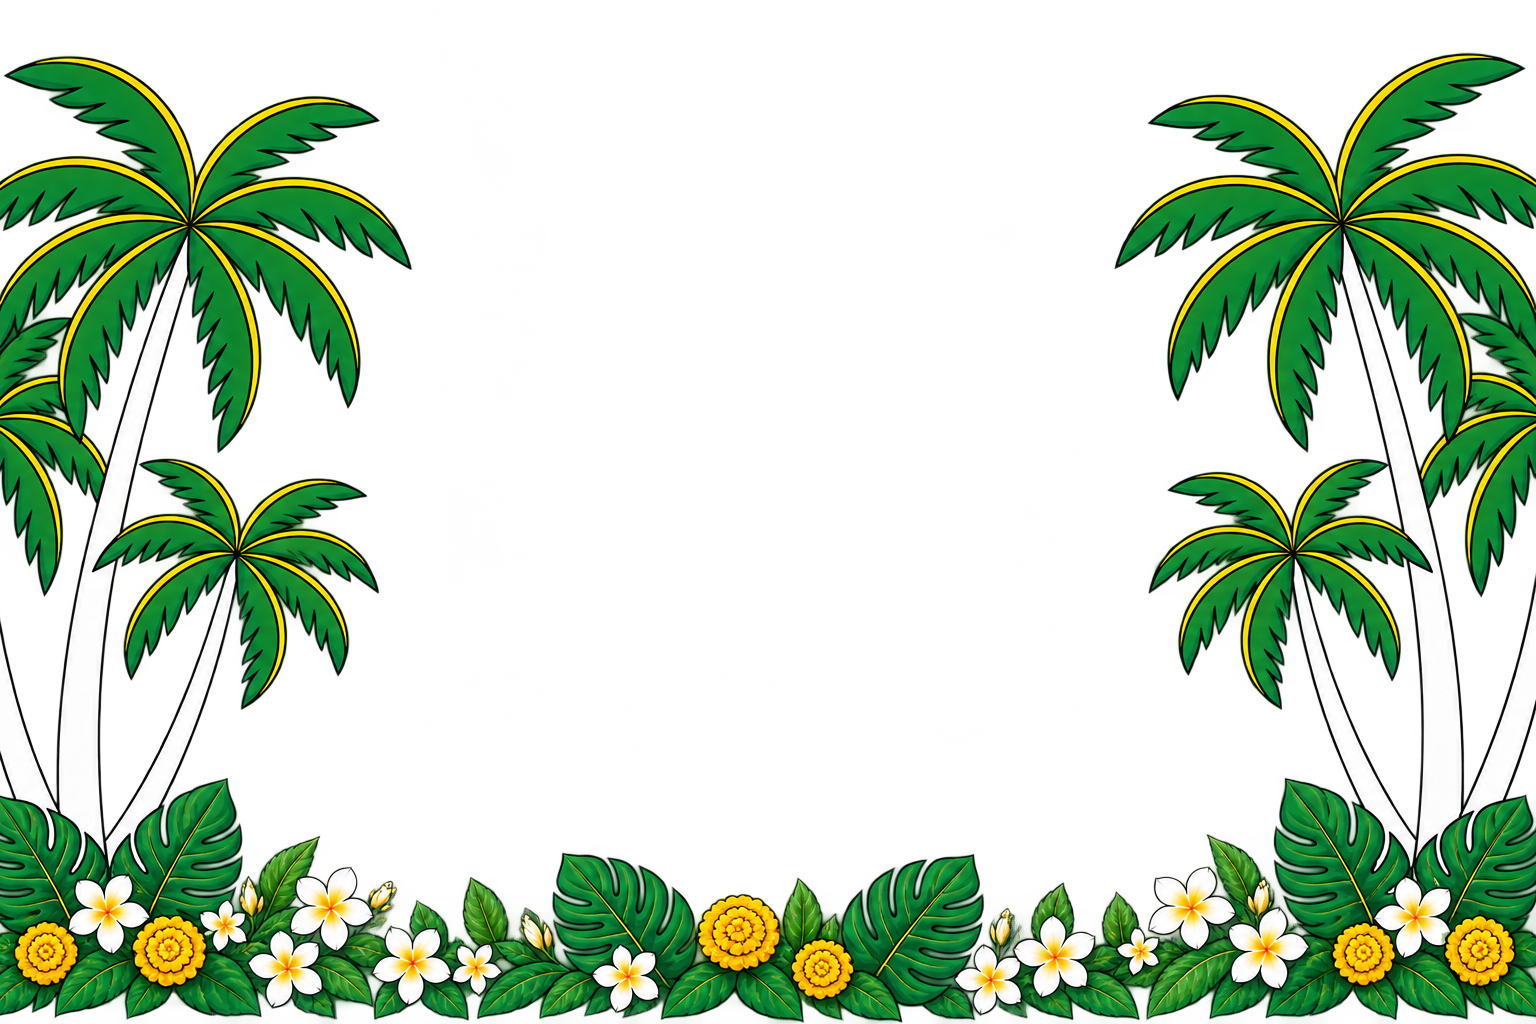
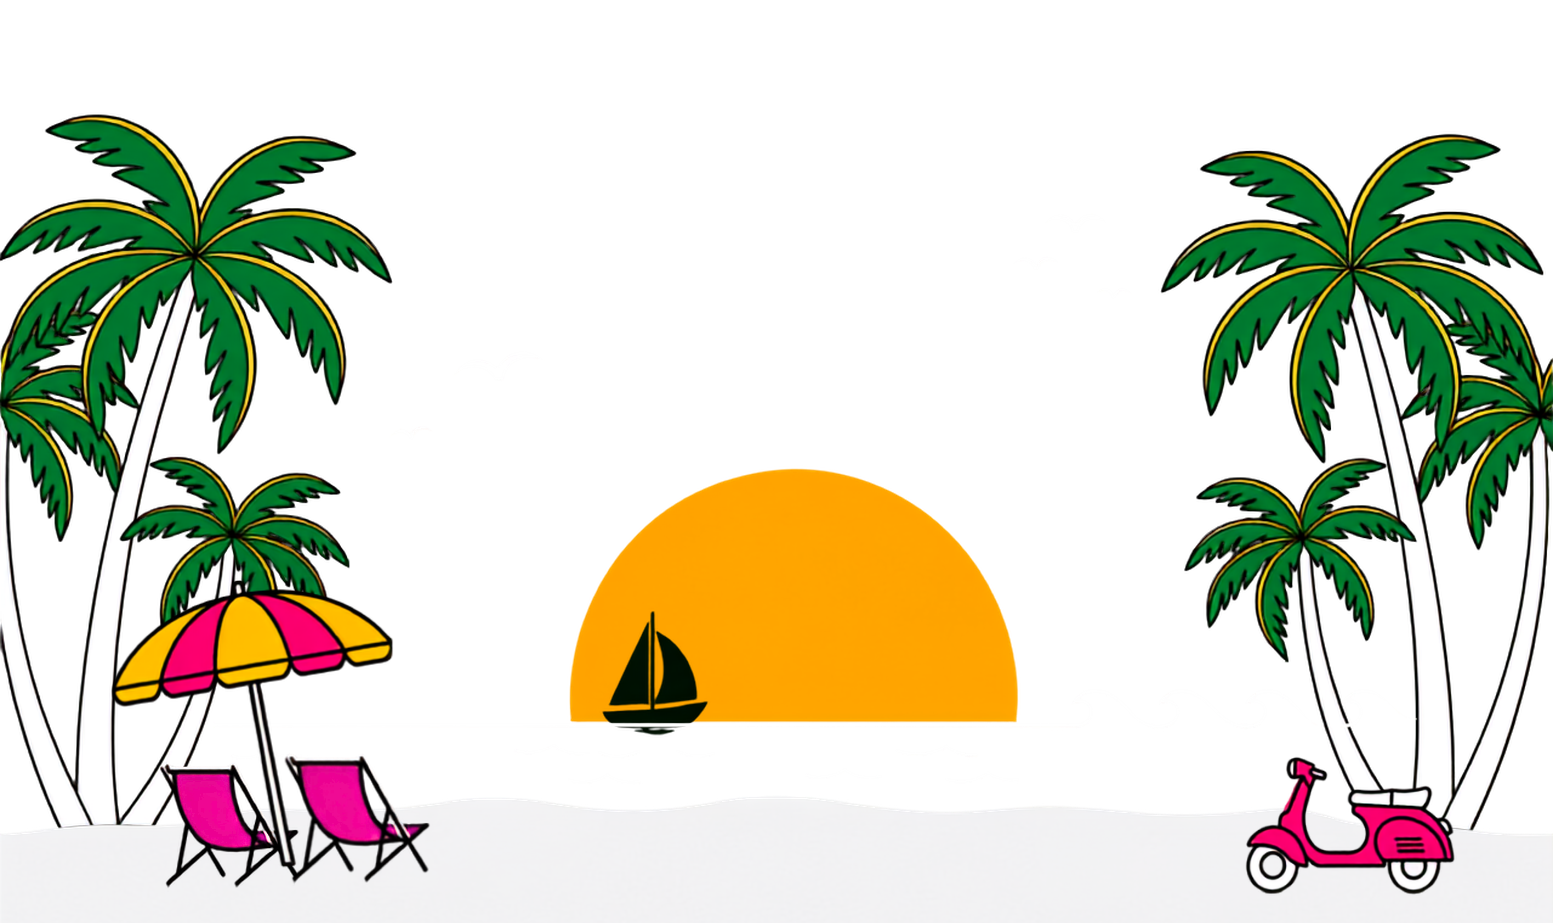
Initial commit

diff --git a/components/badge-generator.tsx b/components/badge-generator.tsx
@@ -181,52 +181,83 @@ export function BadgeGenerator() {
   }, [getBlob, fileName])
 
   const caption = useCallback(() => {
-    if (format === 'B' && (name.trim() || title)) {
-      const who = name.trim() ? name.trim() : 'a builder'
-      return `Locked in as ${who} — "${title}" for Hacker House Goa 2026. Less noise, more signal. See you on the sand. #FrameInGoa`
+    if (format === 'B' && (name.trim() || role.trim())) {
+      const personName = name.trim() ? name.trim() : 'Builder'
+      const personRole = role.trim() ? role.trim() : 'Hacker'
+      return `**${personName} just entered Build Mode.** ⚡💻\n\nRole: **${personRole}**\nMission: **Build. Innovate. Impact.**\nLocation: **Goa, India.** 🌴\n\nSee you at **Hacker House Goa 2026**.\n#FrameInGoa @247pmstudio`
     }
-    return `Locked in for Hacker House Goa 2026. Less noise, more signal. See you on the sand. #FrameInGoa`
-  }, [format, name, title])
+    return `**Builder just entered Build Mode.** ⚡💻\n\nMission: **Build. Innovate. Impact.**\nLocation: **Goa, India.** 🌴\n\nSee you at **Hacker House Goa 2026**.\n#FrameInGoa @247pmstudio`
+  }, [format, name, role])
 
   const handleShare = useCallback(async () => {
     if (!validate()) return
     setShareNote(null)
-    const blob = await getBlob()
-    if (!blob) return
-    const text = caption()
-    const file = new File([blob], fileName(), { type: 'image/png' })
+    setProcessing(true)
+    try {
+      const blob = await getBlob()
+      if (!blob) return
+      const text = caption()
+      const file = new File([blob], fileName(), { type: 'image/png' })
 
-    // Best case (mobile): native share sheet attaches the image directly.
-    const nav = navigator as Navigator & {
-      canShare?: (data?: ShareData) => boolean
-    }
-    if (nav.canShare && nav.canShare({ files: [file] })) {
-      try {
-        await nav.share({ files: [file], text })
-        return
-      } catch (err) {
-        console.log('[v0] native share cancelled/failed:', err)
+      // Best case (mobile): native share sheet attaches the image directly.
+      const nav = navigator as Navigator & {
+        canShare?: (data?: ShareData) => boolean
       }
+      if (nav.canShare && nav.canShare({ files: [file] })) {
+        try {
+          await nav.share({ files: [file], text })
+          setProcessing(false)
+          return
+        } catch (err) {
+          console.log('[v0] native share cancelled/failed:', err)
+        }
+      }
+
+      // Desktop: Convert image to base64 and upload via API
+      const reader = new FileReader()
+      reader.onload = async (event) => {
+        const imageBase64 = event.target?.result as string
+        try {
+          const response = await fetch('/api/share', {
+            method: 'POST',
+            headers: { 'Content-Type': 'application/json' },
+            body: JSON.stringify({ imageBase64, text }),
+          })
+
+          const data = await response.json()
+          
+          // Open Twitter with the share URL (includes image URL if upload succeeded)
+          if (data.twitterUrl) {
+            window.open(data.twitterUrl, '_blank', 'noopener,noreferrer')
+            setShareNote('Opening Twitter with your badge...')
+          } else {
+            // Fallback: open Twitter with text only
+            window.open(
+              `https://twitter.com/intent/tweet?text=${encodeURIComponent(text)}`,
+              '_blank',
+              'noopener,noreferrer',
+            )
+            setShareNote('Opening Twitter (image upload may have failed, but caption is ready)')
+          }
+        } catch (err) {
+          console.error('[v0] share failed:', err)
+          // Fallback to text-only Twitter share
+          window.open(
+            `https://twitter.com/intent/tweet?text=${encodeURIComponent(text)}`,
+            '_blank',
+            'noopener,noreferrer',
+          )
+          setShareNote('Opening Twitter with caption (image upload may have failed)')
+        } finally {
+          setProcessing(false)
+        }
+      }
+      reader.readAsDataURL(blob)
+    } catch (err) {
+      console.error('[v0] share error:', err)
+      setShareNote('Error preparing badge. Please try again.')
+      setProcessing(false)
     }
-
-    // Fallback (desktop): download the image + open a pre-filled tweet to attach.
-    const url = URL.createObjectURL(blob)
-    const a = document.createElement('a')
-    a.href = url
-    a.download = fileName()
-    document.body.appendChild(a)
-    a.click()
-    a.remove()
-    setTimeout(() => URL.revokeObjectURL(url), 1000)
-
-    window.open(
-      `https://twitter.com/intent/tweet?text=${encodeURIComponent(text)}`,
-      '_blank',
-      'noopener,noreferrer',
-    )
-    setShareNote(
-      'Badge downloaded — attach it to the tweet that just opened, caption is ready.',
-    )
   }, [getBlob, caption, fileName])
 
   return (

diff --git a/lib/builder-titles.ts b/lib/builder-titles.ts
@@ -1,50 +1,21 @@
-// Fun "builder title" generator for Hacker House Goa 2026 badges.
+// Builder titles for Hacker House Goa 2026 badges.
 
-const PREFIXES = [
-  'Full-Stack',
-  'Midnight',
-  'Serverless',
-  'Caffeine-Driven',
-  'Chaos',
-  'Zero-Bug',
-  'Prompt',
-  'Ship-Fast',
-  'Late-Night',
-  'Recursive',
-  'Async',
-  'Beachside',
-  'Terminal',
-  'Neon',
-  'Sunset',
-]
-
-const NOUNS = [
-  'Sorcerer',
-  'Shipper',
-  'Whisperer',
-  'Alchemist',
-  'Wrangler',
-  'Architect',
-  'Overlord',
-  'Nomad',
-  'Maverick',
-  'Hacker',
-  'Tinkerer',
-  'Wizard',
-  'Pathfinder',
-  'Renegade',
-  'Virtuoso',
-]
-
-// Map a few common stacks/roles to a themed noun for a little relevance.
-const ROLE_HINTS: { match: RegExp; noun: string }[] = [
-  { match: /front|react|ui|design|css/i, noun: 'Pixel Pusher' },
-  { match: /back|api|server|node|go|rust|python/i, noun: 'Backend Sorcerer' },
-  { match: /ai|ml|llm|data|prompt/i, noun: 'Prompt Alchemist' },
-  { match: /devops|infra|cloud|platform|sre/i, noun: 'Infra Whisperer' },
-  { match: /mobile|ios|android|swift|flutter/i, noun: 'Pocket Wizard' },
-  { match: /founder|ceo|product|pm/i, noun: 'Chief Shipper' },
-  { match: /design|figma|ux/i, noun: 'Vibe Architect' },
+const BUILDER_TITLES = [
+  'Full-Stack Hacker',
+  'Software Builder',
+  'Code Crafter',
+  'Product Builder',
+  'Tech Innovator',
+  'Systems Hacker',
+  'AI Builder',
+  'App Builder',
+  'Web Hacker',
+  'Backend Builder',
+  'Frontend Hacker',
+  'Cloud Builder',
+  'Data Hacker',
+  'DevOps Builder',
+  'Open Source Hacker',
 ]
 
 function pick<T>(arr: T[]): T {
@@ -52,11 +23,5 @@ function pick<T>(arr: T[]): T {
 }
 
 export function generateBuilderTitle(role?: string): string {
-  const trimmed = role?.trim()
-  if (trimmed) {
-    const hint = ROLE_HINTS.find((h) => h.match.test(trimmed))
-    // 60% chance to use the role-relevant title when we have a match
-    if (hint && Math.random() < 0.6) return hint.noun
-  }
-  return `${pick(PREFIXES)} ${pick(NOUNS)}`
+  return pick(BUILDER_TITLES)
 }

diff --git a/app/api/share/route.ts b/app/api/share/route.ts
@@ -1,0 +1,58 @@
+import { NextRequest, NextResponse } from 'next/server'
+
+export async function POST(req: NextRequest) {
+  try {
+    const { imageBase64, text } = await req.json()
+
+    if (!imageBase64 || !text) {
+      return NextResponse.json(
+        { error: 'Missing imageBase64 or text' },
+        { status: 400 }
+      )
+    }
+
+    // Convert base64 to buffer
+    const base64Data = imageBase64.split(',')[1]
+    const buffer = Buffer.from(base64Data, 'base64')
+
+    // Upload to catbox.moe (free file hosting, no auth required)
+    const formData = new FormData()
+    formData.append('fileupload', new Blob([buffer], { type: 'image/png' }))
+
+    const uploadResponse = await fetch('https://catbox.moe/user/api.php', {
+      method: 'POST',
+      body: formData,
+    })
+
+    if (!uploadResponse.ok) {
+      throw new Error('Failed to upload image')
+    }
+
+    const responseText = await uploadResponse.text()
+    
+    if (!responseText.startsWith('https://')) {
+      throw new Error('Invalid upload response')
+    }
+
+    const imageUrl = responseText.trim()
+
+    // Generate Twitter share URL with image as URL preview
+    const tweetText = encodeURIComponent(text)
+    const twitterShareUrl = `https://twitter.com/intent/tweet?text=${tweetText}&url=${encodeURIComponent(imageUrl)}`
+
+    return NextResponse.json({
+      success: true,
+      twitterUrl: twitterShareUrl,
+      imageUrl: imageUrl,
+    })
+  } catch (error) {
+    console.error('[share API] error:', error)
+    
+    // Fallback: open Twitter with just text if image upload fails
+    return NextResponse.json(
+      { error: 'Image upload failed, will open Twitter with text only' },
+      { status: 500 }
+    )
+  }
+}
+

diff --git a/lib/render-badge.ts b/lib/render-badge.ts
@@ -324,10 +324,19 @@ export function drawBadge(canvas: HTMLCanvasElement, data: BadgeData) {
       cy += chipH + 32
     }
 
-    // Barcode — bare bars, no background
-    cy += 16
-    ctx.fillStyle = CREAM
-    drawBarcode(ctx, (data.name || 'builder') + (data.role || ''), centerX, cy, 400, 60)
+    // Barcode at bottom — bare bars, no background
+    const barcodeY = BADGE_H - 70
+    const barcodeW = 400
+    const barcodeH = 60
+    
+    // Draw barcode rectangle border
+    ctx.strokeStyle = '#000000'
+    ctx.lineWidth = 1.5
+    ctx.strokeRect(centerX - barcodeW / 2, barcodeY, barcodeW, barcodeH)
+    
+    // Draw barcode bars
+    ctx.fillStyle = '#000000'
+    drawBarcode(ctx, (data.name || 'builder') + (data.role || ''), centerX, barcodeY, barcodeW, barcodeH)
 
   } else {
     ctx.font      = `800 60px ${fontSerif}`
